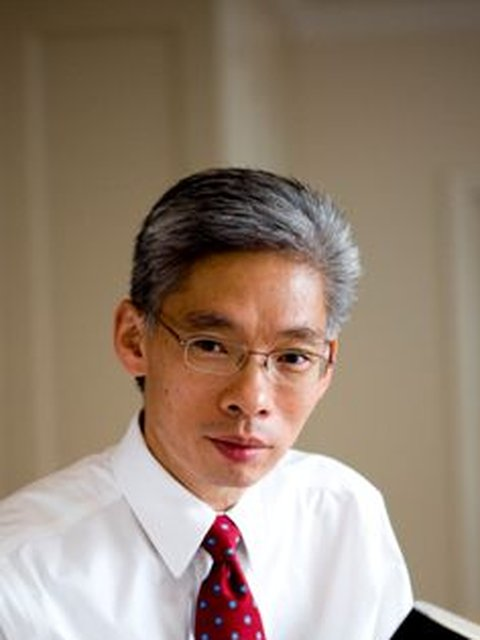
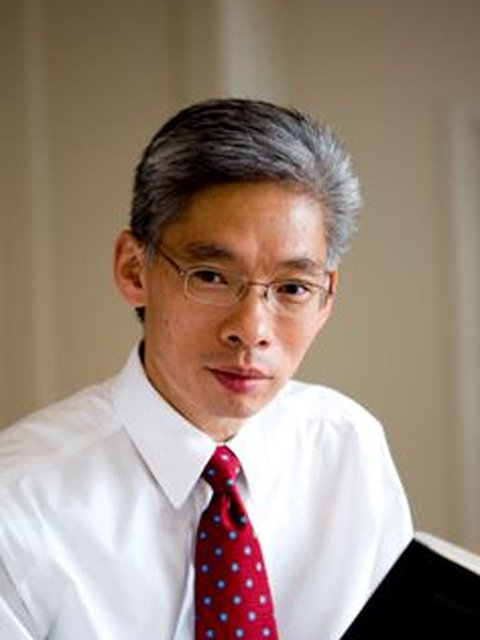
Add files via upload

diff --git a/index.html b/index.html
@@ -284,11 +284,9 @@ nav ul a .caret{display:inline-block;margin-left:.3rem;transition:transform .2s;
 .steps-inner{display:grid;grid-template-columns:.85fr 1.15fr;gap:clamp(2.5rem,5vw,4.5rem)}
 .steps h2{font-size:clamp(1.9rem,3.4vw,2.7rem);margin-bottom:1rem}
 .steps .lede{color:var(--ink-soft);margin-bottom:1.6rem}
-.pay-logos{display:flex;gap:1.2rem;align-items:center;flex-wrap:wrap}
-.pay-logos img{height:38px;width:auto;background:#fff;border-radius:12px;padding:.5rem .9rem;box-shadow:0 6px 16px rgba(12,59,74,.07)}
-.pay-chip{height:38px;display:inline-flex;align-items:center;justify-content:center;padding:0 1.1rem;border-radius:12px;background:#fff;box-shadow:0 6px 16px rgba(12,59,74,.07);font-weight:800;font-size:1.15rem;letter-spacing:-.02em}
-.pay-zip-logo{height:34px !important;width:auto;background:#fff;border-radius:12px;padding:.55rem .9rem !important;box-shadow:0 6px 16px rgba(12,59,74,.07)}
-.pay-medipay-logo{height:52px !important;width:auto;background:#fff;border-radius:12px;padding:.4rem .9rem !important;box-shadow:0 6px 16px rgba(12,59,74,.07)}
+.pay-logos{display:flex;gap:1rem;align-items:center;flex-wrap:wrap}
+.pay-logos img,.pay-zip-logo,.pay-medipay-logo{width:150px !important;height:60px !important;object-fit:contain;background:#fff;border-radius:12px;padding:.7rem 1rem !important;box-shadow:0 6px 16px rgba(12,59,74,.07);box-sizing:border-box}
+.pay-chip{width:150px;height:60px;display:inline-flex;align-items:center;justify-content:center;border-radius:12px;background:#fff;box-shadow:0 6px 16px rgba(12,59,74,.07);font-weight:800;font-size:1.15rem;letter-spacing:-.02em;box-sizing:border-box}
 .step{display:grid;grid-template-columns:auto 1fr;gap:1.3rem;padding:1.5rem 0;border-bottom:1.5px solid var(--mist-deep)}
 .step:last-child{border-bottom:none}
 .step-num{font-family:var(--font-display);font-size:1.5rem;width:54px;height:54px;border-radius:50%;background:#fff;color:var(--teal);display:grid;place-items:center;box-shadow:0 6px 16px rgba(12,59,74,.08)}
